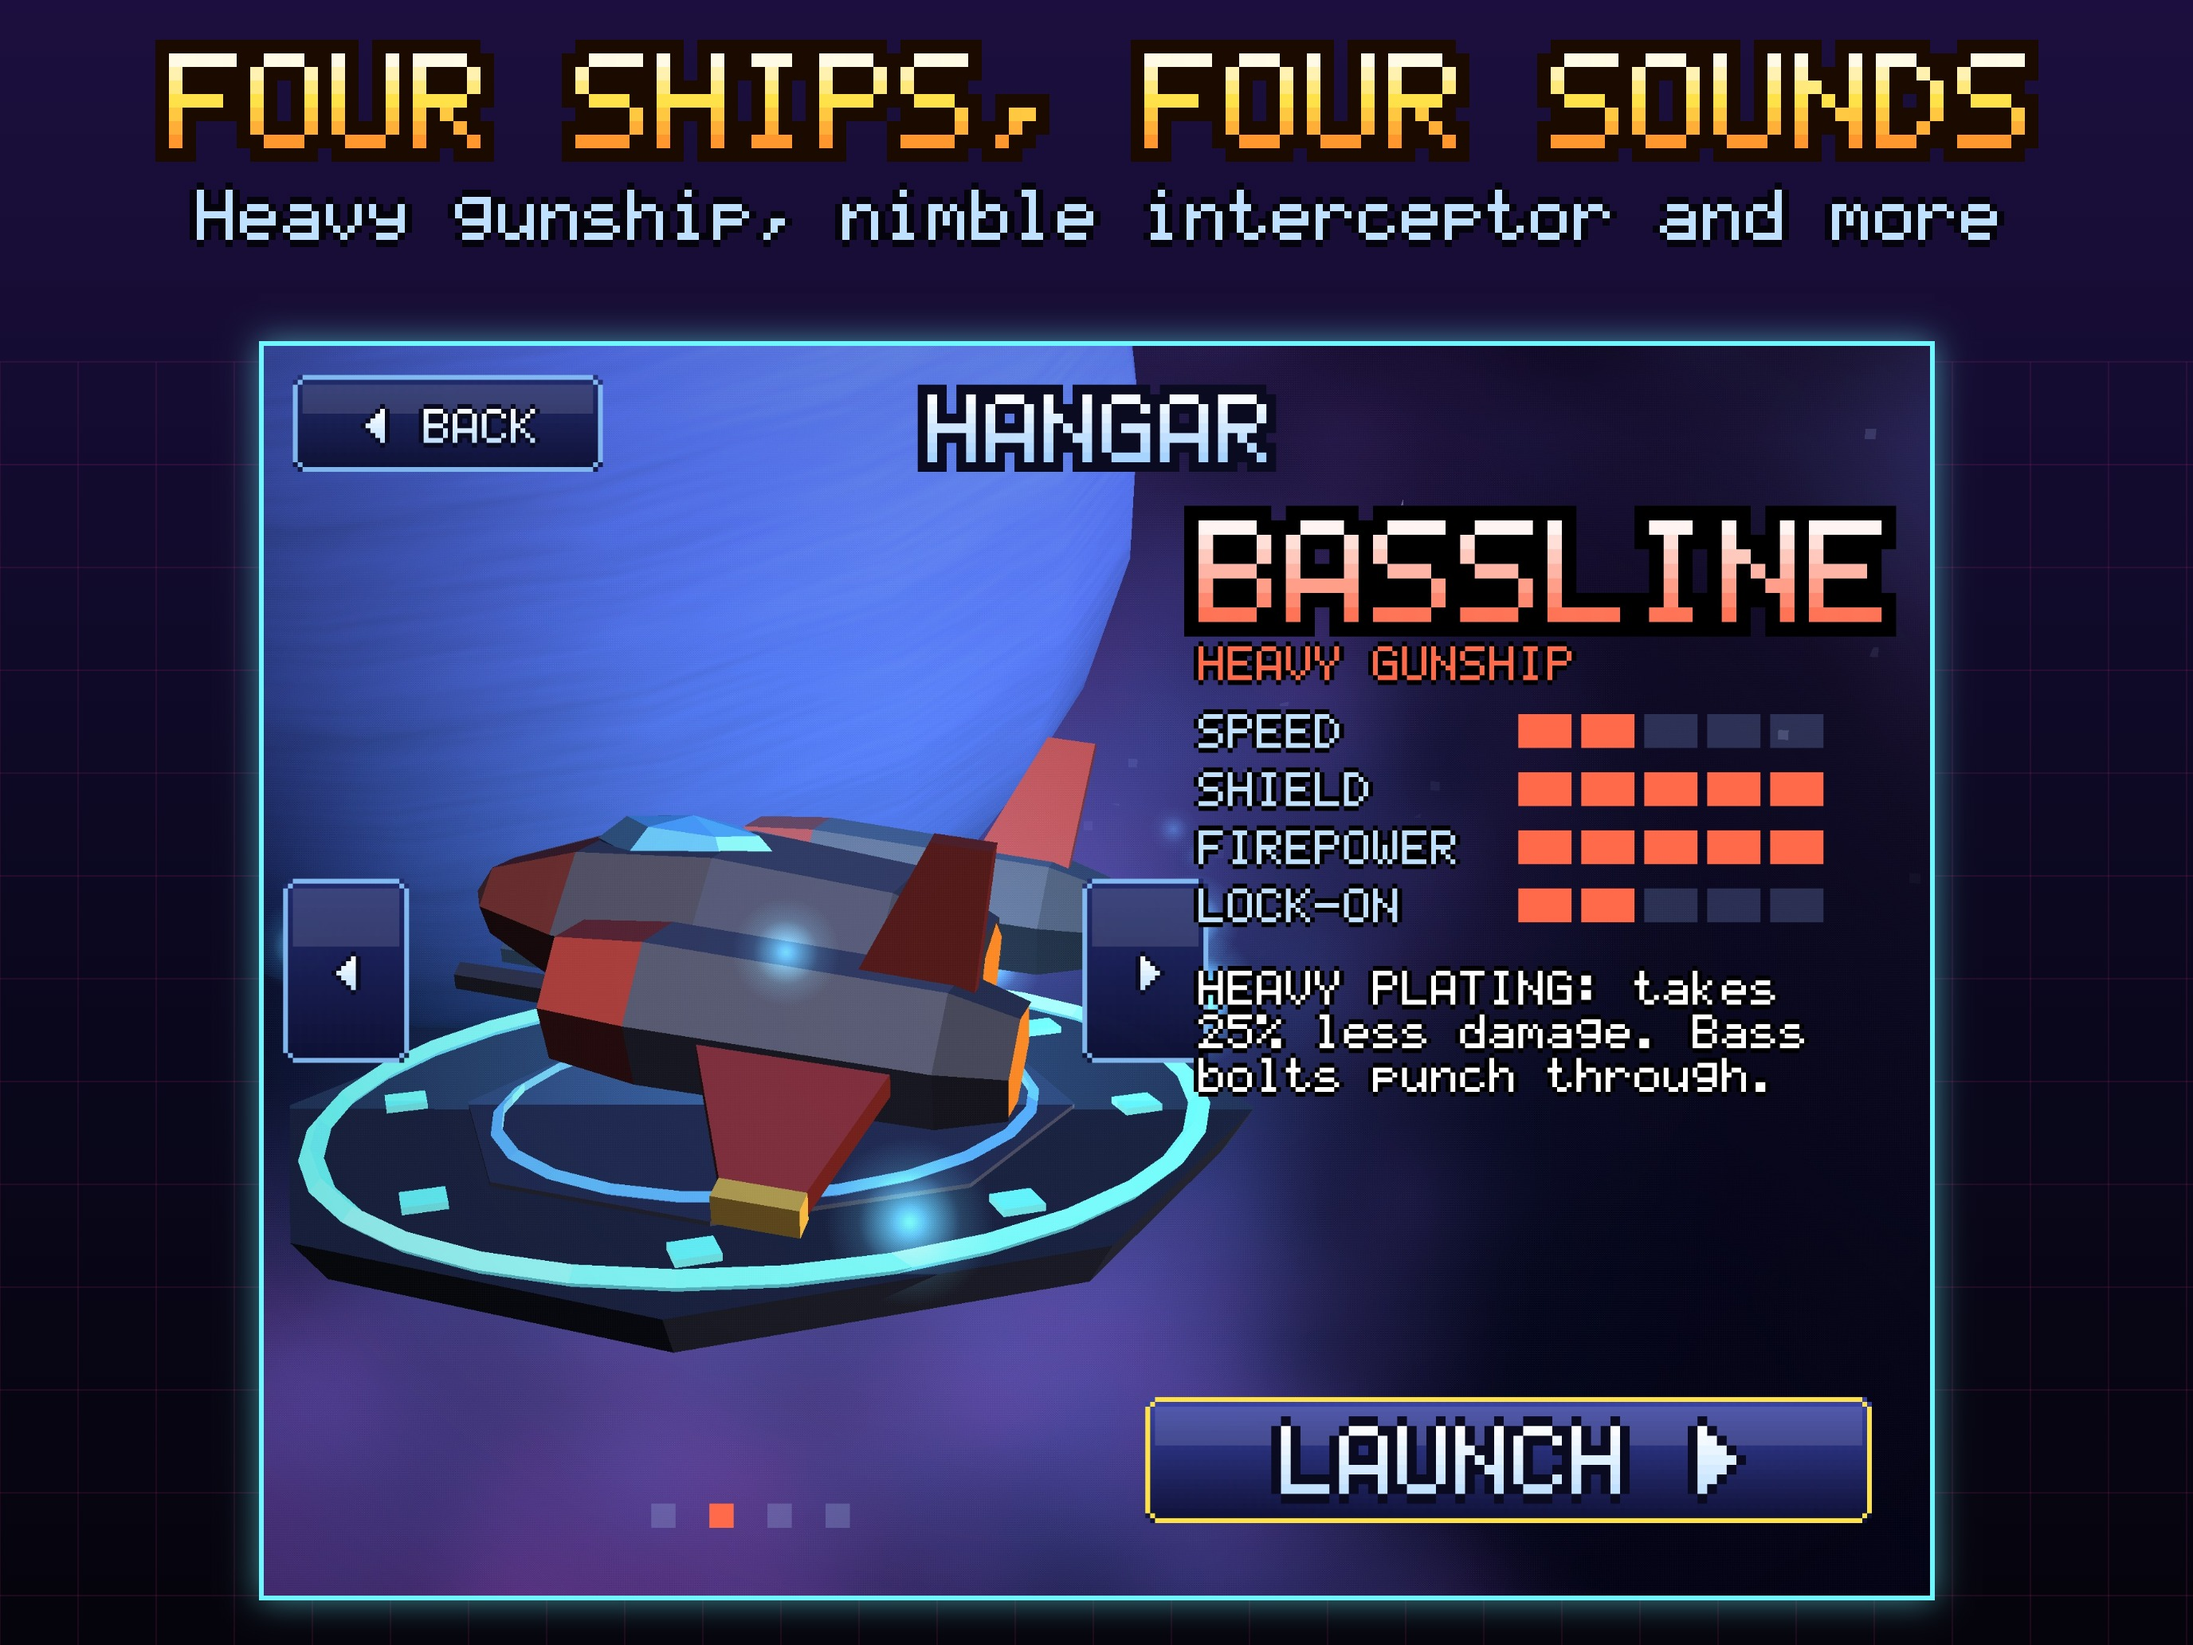
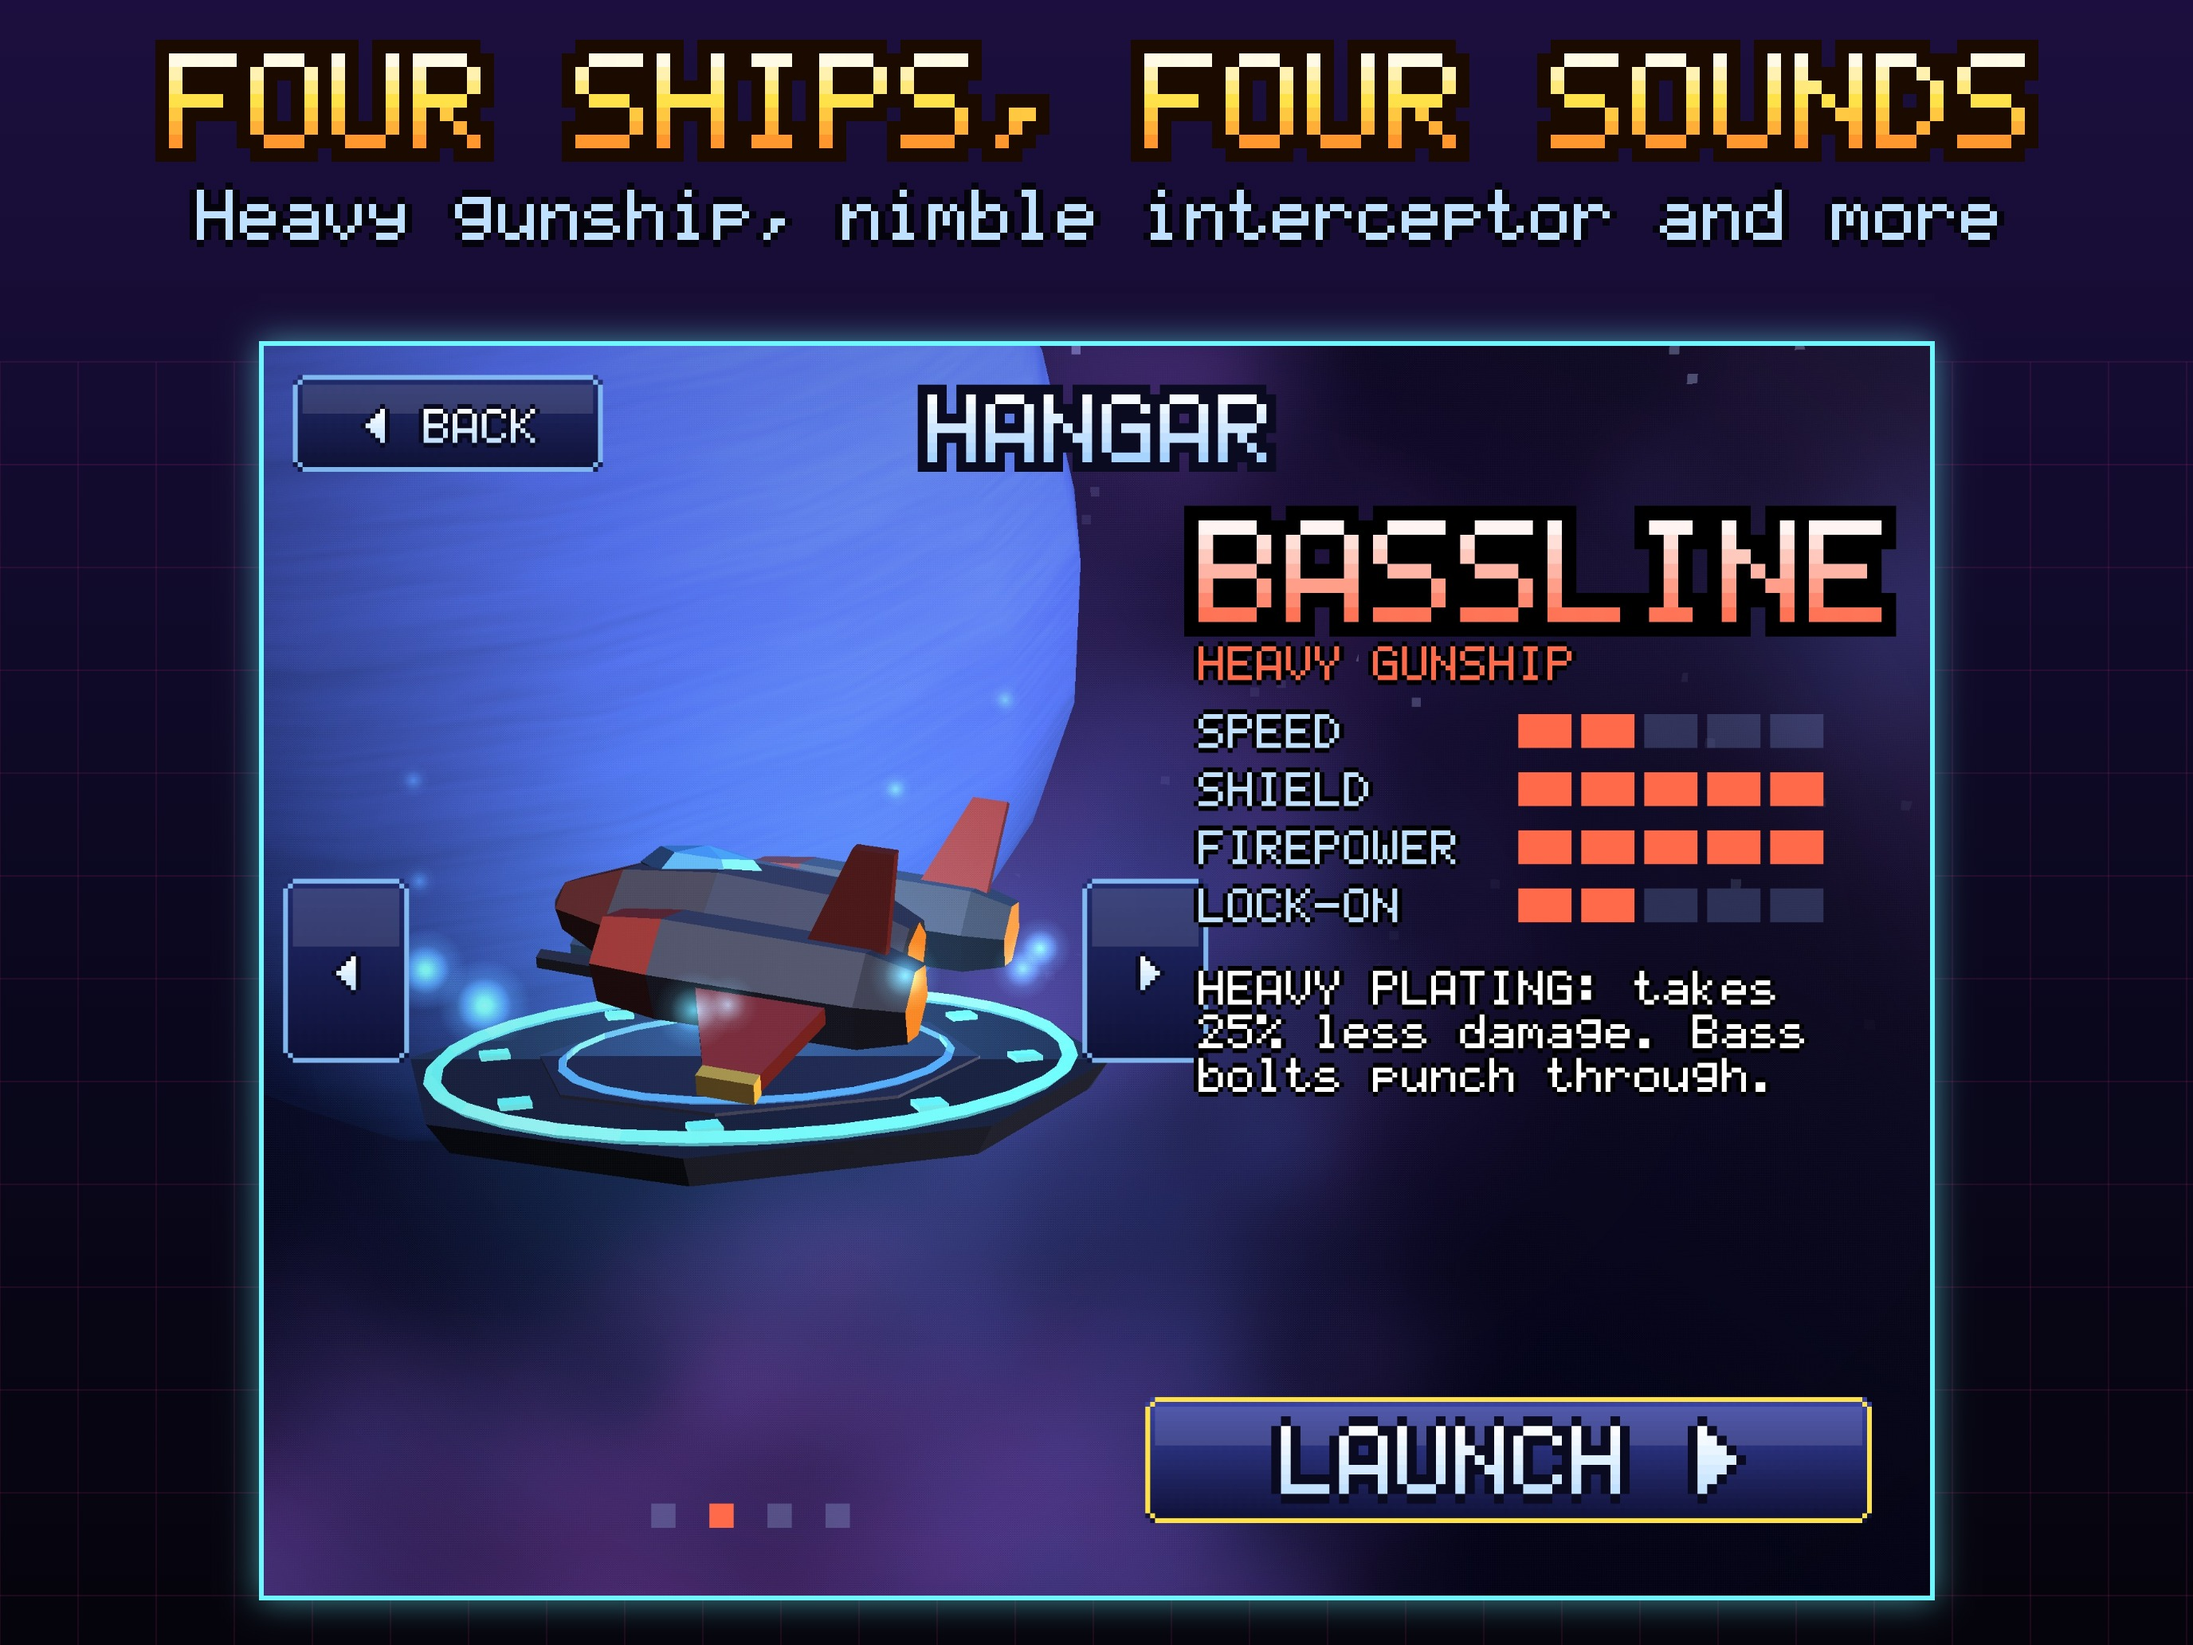
iOS CI: patient, self-diagnosing simulator run; hangar framing on iPad
- The simulator step waits up to 5 minutes for the demo (first launches
  on CI simulators are slow), always screenshots, and on failure dumps
  the simulator's system log for the app plus crash reports instead of
  failing blind. The native shell logs a launch marker via NSLog.
- Hangar camera pulls back on less-wide screens so the ship clears the
  arrows on iPad; hangar store screenshots re-rendered.

Claude-Session: https://claude.ai/code/session_01FQ9WvY5PNpTPxS3qxNWqHh

diff --git a/public/game/synthwing/js/game.js b/public/game/synthwing/js/game.js
@@ -689,7 +689,8 @@ const Game = {
     const cam = this.cam, aspect = r.sceneW / r.sceneH, land = aspect >= 1, t = this.realTime;
     cam.fov = 36 * DEG;
     const fov = land ? cam.fov : Math.min(100 * DEG, 2 * Math.atan(Math.tan(cam.fov / 2) * 1.55 / Math.max(0.5, aspect)));
-    const D = land ? 13 : 10.5, halfH = Math.tan(fov / 2) * D, halfW = halfH * aspect;
+    // pull back on less-wide screens (iPad) so the ship clears the arrows
+    const D = land ? 13 * Math.max(1, 1.9 / aspect) : 10.5, halfH = Math.tan(fov / 2) * D, halfW = halfH * aspect;
     const ox = land ? 0.42 * halfW : 0, oy = land ? -0.08 * halfH : -0.34 * halfH;
     cam.pos.set(ox + Math.sin(t * 0.25) * 1.2, oy + (land ? 3.6 : 5), D);
     cam.target.set(ox, oy, 0); cam.up.set(0, 1, 0);

diff --git a/apps/synthwing-ios/ios/App/App/GameViewController.swift b/apps/synthwing-ios/ios/App/App/GameViewController.swift
@@ -20,6 +20,7 @@ class GameViewController: CAPBridgeViewController {
 
     override func viewDidLoad() {
         super.viewDidLoad()
+        NSLog("[synthwing] native shell loaded")
         let ink = UIColor(red: 5 / 255, green: 4 / 255, blue: 12 / 255, alpha: 1)
         view.backgroundColor = ink
         webView?.isOpaque = true
